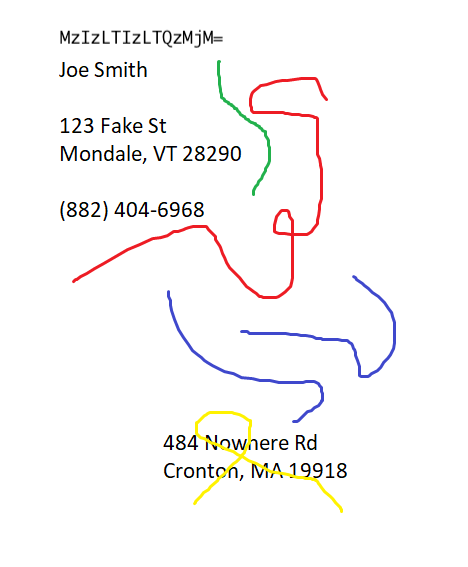
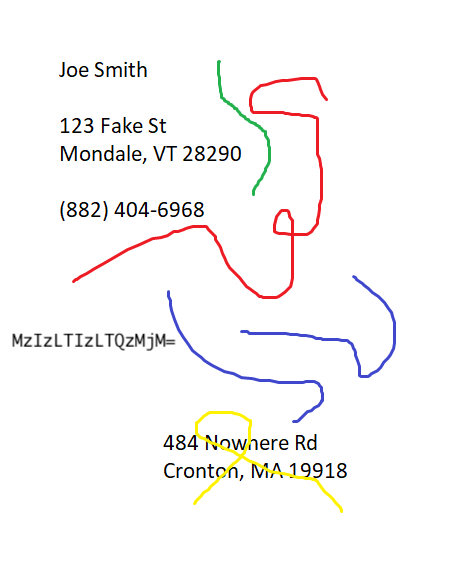
Updating example files (#2)
* updating example files

* removing JSON/YAML embedded images from examples until the feature is stabilized

Changed region(s): [[0.0299, 0.5697, 0.3889, 0.6296], [0.1197, 0.03, 0.4786, 0.0899]]

diff --git a/README.md b/README.md
@@ -176,59 +176,6 @@ ScanResponse(
 )
 ```
 
-### Embedded Image in JSON or YAML
-
-The problem with image data is that it can occur in the wild embedded in different formats or variations.
-Here are some examples which will show the same detection capabilities as when we are sending only the image itself:
-
-```python
-client.scan(files=[
-    "./examples/embedded-image.json",
-    "./examples/embedded-image.yaml",
-])
-```
-
-Again, we can see that the same information was extracted.
-
-```text
-ScanResponse(
-    ID=None,
-    alerts=None,
-    annotations=None,
-    decision='Allow',
-    extractions=[
-        Extraction(
-            piis={'phone_number': 1.0, 'us_ssn': 1.0, ...},
-            categories=[Modality(group='text', type='txt')],
-            data='...',
-            detections=[
-                TextualDetection(end=44490, hash=None, name='phone_number', score=0.6, start=10, type='PII'),
-                TextualDetection(end=44490, hash=None, name='us_ssn', score=0.5, start=10, type='PII')
-                ...
-            ],
-            modalities=[Modality(group='text', type='txt')],
-            topics={'code': 0.93, 'image/png': 1.0, 'text/txt': 1.0}
-        ),
-        Extraction(
-            piis={'phone_number': 1.0, 'us_ssn': 1.0, ...},
-            categories=[Modality(group='code', type='yaml')],
-            data='...',
-            detections=[
-                TextualDetection(end=44508, hash=None, name='phone_number', score=0.6, start=28, type='PII'),
-                TextualDetection(end=44508, hash=None, name='us_ssn', score=0.5, start=28, type='PII')
-                ...
-            ],
-            modalities=[Modality(group='code', type='yaml')],
-            topics={'code': 0.93, 'image/png': 1.0, 'text/txt': 1.0}
-            ...
-        )
-    ],
-    ...
-)
-```
-
-**NOTE:** Of course, the same detection capabilities exist for prompt injection detection within images!
-
 ### Enabling or disabling analyzers
 
 All detection capabilities come at a price: latency.
